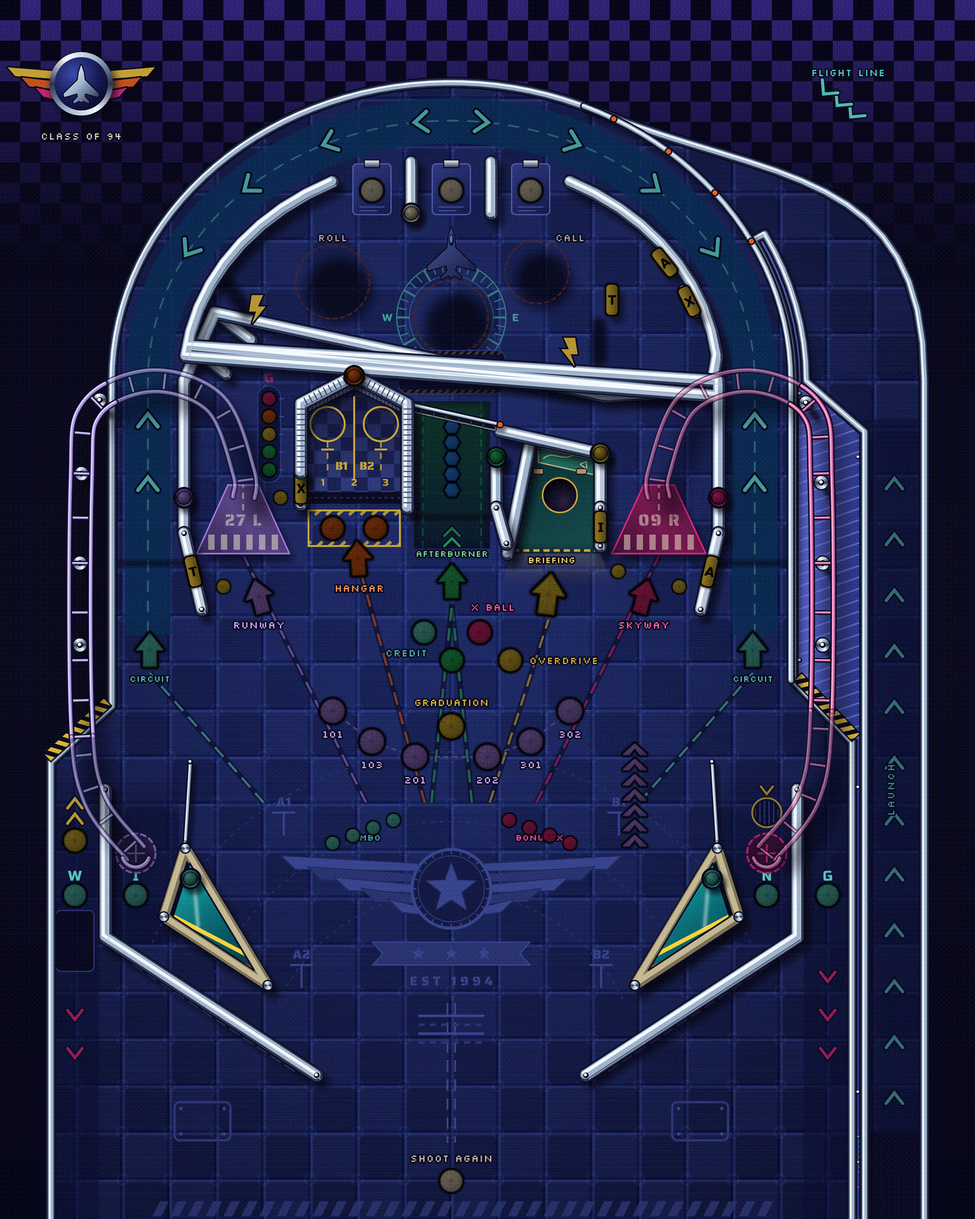
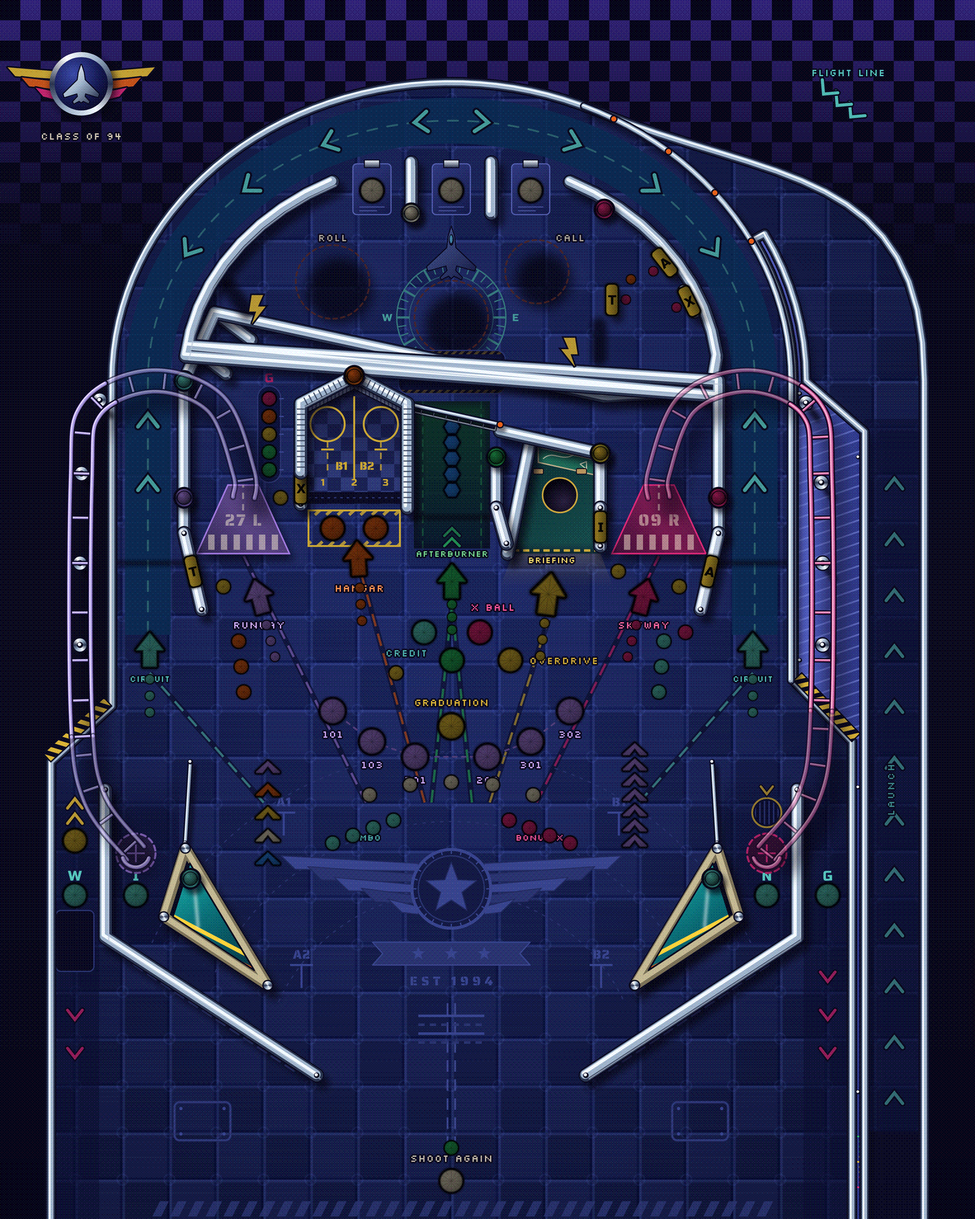
Concept A lamps and domes: 44 lamps and the Flight Deck and left arch domes
The 40 lamps the art proposed and G1 adopted (three progress pips under
each shot arrow, the altimeter FL100 to FL500, a lamp under each F-L-A-P-S
rollover, BOGEY, RADAR, Safety Post, Multiball, DECK lit) plus the deck's
A-C-E letters and CAT SHOT, appended to LampId after Bonus5X; FlasherId
gains Deck (476, 165) and LeftArch (145, 300), the order of the art's dome
sheet. Helpers ladderLamp, isPipLamp, altitudeLamp, flapsLamp and
deckLetterLamp name the groups. The old art pipeline bakes them (a pip
insert shape, 8 units) so that layout and art agree; background.png and
ArtPalette.hpp regenerated, SHA256SUMS updated. The geometry test allows
the pips' closer spacing.

diff --git a/src/core/TableLayout.hpp b/src/core/TableLayout.hpp
@@ -1013,13 +1013,60 @@ enum class LampId : std::uint8_t {
   Bonus3X,
   Bonus4X,
   Bonus5X,
+  // Concept A (G6): the art's proposed lamps (tools/art/table_a lamp_plan.json,
+  // adopted at G1), then the Flight Deck's letters. Each shot's progress
+  // ladder: three pips below its arrow, the first nearest the arrow.
+  LadderCircuitLeft1,
+  LadderCircuitLeft2,
+  LadderCircuitLeft3,
+  LadderRunway1,
+  LadderRunway2,
+  LadderRunway3,
+  LadderHangar1,
+  LadderHangar2,
+  LadderHangar3,
+  LadderBriefing1,
+  LadderBriefing2,
+  LadderBriefing3,
+  LadderTurbine1,
+  LadderTurbine2,
+  LadderTurbine3,
+  LadderSkyway1,
+  LadderSkyway2,
+  LadderSkyway3,
+  LadderCircuitRight1,
+  LadderCircuitRight2,
+  LadderCircuitRight3,
+  AltitudeFL100,  // The altimeter, bottom (FL100) to top (FL500).
+  AltitudeFL200,
+  AltitudeFL300,
+  AltitudeFL400,
+  AltitudeFL500,
+  FlapsF,  // One under each F-L-A-P-S rollover (kRollovers order).
+  FlapsL,
+  FlapsA,
+  FlapsP,
+  FlapsS,
+  Bogey1,  // Beside the BOGEY drops and the RADAR stand-ups (G2 builds them).
+  Bogey2,
+  Bogey3,
+  Radar1,
+  Radar2,
+  Radar3,
+  SafetyPost,
+  Multiball,
+  DeckLit,  // The Skyway's diverter sends the next ball to the deck.
+  DeckA,    // On the field side of the deck's A-C-E stand-ups.
+  DeckC,
+  DeckE,
+  CatShot,  // Below the CAT SHOT cup.
   Count,
 };
 struct Lamp {
   LampId id;
   Vec2 position;
 };
-inline constexpr std::array<Lamp, 58> kLamps{{
+inline constexpr std::array<Lamp, 102> kLamps{{
     {LampId::ArrowCircuitLeft, {118.0F, 512.0F}},
     {LampId::ArrowRunway, {204.0F, 470.0F}},
     {LampId::ArrowHangar, {282.0F, 440.0F}},
@@ -1084,6 +1131,52 @@ inline constexpr std::array<Lamp, 58> kLamps{{
     {LampId::Bonus3X, {433.0F, 658.0F}},
     {LampId::Bonus4X, {417.0F, 652.0F}},
     {LampId::Bonus5X, {401.0F, 646.0F}},
+    // Concept A (G6). Where the art placed them (lamp_plan.json), except the
+    // Afterburner's pips, which G1 moved to clear TurboCharge.
+    {LampId::LadderCircuitLeft1, {118.0F, 535.0F}},
+    {LampId::LadderCircuitLeft2, {118.0F, 548.0F}},
+    {LampId::LadderCircuitLeft3, {118.0F, 561.0F}},
+    {LampId::LadderRunway1, {209.9F, 492.2F}},
+    {LampId::LadderRunway2, {213.3F, 504.8F}},
+    {LampId::LadderRunway3, {216.6F, 517.3F}},
+    {LampId::LadderHangar1, {283.4F, 463.0F}},
+    {LampId::LadderHangar2, {284.2F, 475.9F}},
+    {LampId::LadderHangar3, {285.1F, 488.9F}},
+    {LampId::LadderBriefing1, {429.0F, 490.8F}},
+    {LampId::LadderBriefing2, {427.3F, 503.7F}},
+    {LampId::LadderBriefing3, {425.6F, 516.6F}},
+    {LampId::LadderTurbine1, {356.0F, 476.0F}},
+    {LampId::LadderTurbine2, {356.0F, 486.0F}},
+    {LampId::LadderTurbine3, {356.0F, 496.0F}},
+    {LampId::LadderSkyway1, {501.1F, 492.2F}},
+    {LampId::LadderSkyway2, {497.7F, 504.8F}},
+    {LampId::LadderSkyway3, {494.4F, 517.3F}},
+    {LampId::LadderCircuitRight1, {593.0F, 535.0F}},
+    {LampId::LadderCircuitRight2, {593.0F, 548.0F}},
+    {LampId::LadderCircuitRight3, {593.0F, 561.0F}},
+    {LampId::AltitudeFL100, {211.0F, 676.0F}},
+    {LampId::AltitudeFL200, {211.0F, 658.0F}},
+    {LampId::AltitudeFL300, {211.0F, 640.0F}},
+    {LampId::AltitudeFL400, {211.0F, 622.0F}},
+    {LampId::AltitudeFL500, {211.0F, 604.0F}},
+    {LampId::FlapsF, {291.0F, 626.0F}},
+    {LampId::FlapsL, {323.0F, 618.0F}},
+    {LampId::FlapsA, {355.5F, 616.0F}},
+    {LampId::FlapsP, {388.0F, 618.0F}},
+    {LampId::FlapsS, {420.0F, 626.0F}},
+    {LampId::Bogey1, {188.0F, 505.0F}},
+    {LampId::Bogey2, {190.0F, 525.0F}},
+    {LampId::Bogey3, {192.0F, 545.0F}},
+    {LampId::Radar1, {523.0F, 505.0F}},
+    {LampId::Radar2, {521.0F, 525.0F}},
+    {LampId::Radar3, {519.0F, 545.0F}},
+    {LampId::SafetyPost, {355.5F, 904.0F}},
+    {LampId::Multiball, {312.0F, 530.0F}},
+    {LampId::DeckLit, {540.0F, 498.0F}},
+    {LampId::DeckA, {493.0F, 236.0F}},
+    {LampId::DeckC, {514.7F, 213.6F}},
+    {LampId::DeckE, {532.9F, 242.1F}},
+    {LampId::CatShot, {497.0F, 220.0F}},
 }};
 static_assert(kLamps.size() == static_cast<std::size_t>(LampId::Count), "one lamp per id");
 [[nodiscard]] constexpr bool isArrowLamp(LampId id) noexcept {
@@ -1099,6 +1192,33 @@ static_assert(kLamps.size() == static_cast<std::size_t>(LampId::Count), "one lam
   return static_cast<LampId>(static_cast<std::size_t>(LampId::TaxiT) +
                              (standup < kTaxiStandups ? standup : 0));
 }
+// Concept A's lamp groups (G6). Each shot's arrow (LampId order, the first
+// seven lamps) has a ladder of three pips; k is 0 (nearest the arrow) to 2.
+inline constexpr std::size_t kShotLadderPips = 3;
+[[nodiscard]] constexpr LampId ladderLamp(std::size_t arrow, std::size_t k) noexcept {
+  return static_cast<LampId>(static_cast<std::size_t>(LampId::LadderCircuitLeft1) +
+                             (arrow < 7 ? arrow : 0) * kShotLadderPips +
+                             (k < kShotLadderPips ? k : 0));
+}
+[[nodiscard]] constexpr bool isPipLamp(LampId id) noexcept {
+  return id >= LampId::LadderCircuitLeft1 && id <= LampId::LadderCircuitRight3;
+}
+// The altimeter's rung for a level, 0 (FL100) to 4 (FL500).
+[[nodiscard]] constexpr LampId altitudeLamp(std::size_t level) noexcept {
+  return static_cast<LampId>(static_cast<std::size_t>(LampId::AltitudeFL100) +
+                             (level < 5 ? level : 4));
+}
+// F-L-A-P-S letter 0 to 4.
+[[nodiscard]] constexpr LampId flapsLamp(std::size_t letter) noexcept {
+  return static_cast<LampId>(static_cast<std::size_t>(LampId::FlapsF) + (letter < 5 ? letter : 0));
+}
+// A deck stand-up's letter (kStandups index kDeckStandupA to kDeckStandupA + 2).
+[[nodiscard]] constexpr LampId deckLetterLamp(std::size_t standup) noexcept {
+  return static_cast<LampId>(static_cast<std::size_t>(LampId::DeckA) +
+                             (standup >= kDeckStandupA && standup < kDeckStandupA + 3
+                                  ? standup - kDeckStandupA
+                                  : 0));
+}
 
 // --- Flasher domes (revision 3, TABLE_REV3.md 3.10) ------------------------------------
 // Each stands on a solid where no ball rolls; the art bakes its base unlit
@@ -1113,9 +1233,13 @@ enum class FlasherId : std::uint8_t {
   Nest,
   SlingLeft,
   SlingRight,
+  // Concept A (G1): on the top of the deck's left wall, and on the top of
+  // the left rim straight (the Left Loop's arch).
+  Deck,
+  LeftArch,
   Count,
 };
-inline constexpr std::array<Vec2, 8> kFlasherDomes{{
+inline constexpr std::array<Vec2, 10> kFlasherDomes{{
     {279.0F, 296.0F},
     {473.0F, 357.0F},
     {391.0F, 360.0F},
@@ -1124,6 +1248,8 @@ inline constexpr std::array<Vec2, 8> kFlasherDomes{{
     {324.0F, 168.0F},
     {150.0F, 692.0F},
     {561.0F, 692.0F},
+    {476.0F, 165.0F},
+    {145.0F, 300.0F},
 }};
 static_assert(kFlasherDomes.size() == static_cast<std::size_t>(FlasherId::Count));
 

diff --git a/tools/art/palette.py b/tools/art/palette.py
@@ -52,7 +52,8 @@ INSERT_ROUND_PER_DIAMETER = 24.0 / 22.0   # insert_round.png is drawn this many 
 # positions are the art's proposal and the one place they are written. They are baked into the background
 # unlit and exported to ArtPalette.hpp (kPlannedLamps, kFlasherDomes) so the code can take exactly these
 # positions, or move them and run make_all.py again. Each was placed clear of every solid of the rev3 layout.
-# Shapes: "round" (insert_round.png), "hex" (insert_hex.png), "chevron" (insert_chevron.png, points up).
+# Shapes: "round" (insert_round.png), "pip" (insert_round.png at PIP_DIAMETER), "hex" (insert_hex.png), "chevron"
+# (insert_chevron.png, points up).
 BLUE_NEON = "#3CC8FF"
 LADDER_DIAMETER = 12.0        # the small round inserts of the ladders (course lamps are 22, status 20)
 HEX_DIAMETER = 11.0           # drone armour, corner to corner
@@ -72,8 +73,32 @@ PLANNED_LAMPS = (
     # Combo 2X..5X left of centre and bonus multiplier 2X..5X mirrored on the right, rising toward the middle;
     # concept A: 16 lower, clear of the F and S rollovers.
     [("Combo%dX" % (i + 2), AQUA, "round", (262.0 + 16.0 * i, 664.0 - 6.0 * i)) for i in range(4)] +
-    [("Bonus%dX" % (i + 2), PINK, "round", (449.0 - 16.0 * i, 664.0 - 6.0 * i)) for i in range(4)]
+    [("Bonus%dX" % (i + 2), PINK, "round", (449.0 - 16.0 * i, 664.0 - 6.0 * i)) for i in range(4)] +
+    # Concept A (G6): the art's proposed lamps (table_a lamp_plan.json, adopted at G1). Three progress pips below
+    # each shot arrow in the shot's colour (the Afterburner's moved by G1 to clear TurboCharge), the altimeter's
+    # rungs FL100 (bottom) to FL500 in the Altitude's colours, a lamp under each F-L-A-P-S rollover, BOGEY and
+    # RADAR, the Safety Post, Multiball, DECK lit, then the Flight Deck's A-C-E letters and CAT SHOT.
+    [("Ladder%s%d" % (name, k + 1), col, "pip", pos) for name, col, pips in (
+        ("CircuitLeft", AQUA, [(118.0, 535.0), (118.0, 548.0), (118.0, 561.0)]),
+        ("Runway", ORCHID, [(209.9, 492.2), (213.3, 504.8), (216.6, 517.3)]),
+        ("Hangar", ORANGE, [(283.4, 463.0), (284.2, 475.9), (285.1, 488.9)]),
+        ("Briefing", YELLOW, [(429.0, 490.8), (427.3, 503.7), (425.6, 516.6)]),
+        ("Turbine", GREEN, [(356.0, 476.0), (356.0, 486.0), (356.0, 496.0)]),
+        ("Skyway", PINK, [(501.1, 492.2), (497.7, 504.8), (494.4, 517.3)]),
+        ("CircuitRight", AQUA, [(593.0, 535.0), (593.0, 548.0), (593.0, 561.0)]),
+    ) for k, pos in enumerate(pips)] +
+    [("AltitudeFL%d00" % (i + 1), c, "chevron", (211.0, 676.0 - 18.0 * i))
+     for i, c in enumerate((BLUE, CREAM, YELLOW, ORANGE, ORCHID))] +
+    [("Flaps%s" % l, CREAM, "round", pos) for l, pos in zip("FLAPS", ((291.0, 626.0), (323.0, 618.0), (355.5, 616.0),
+                                                                      (388.0, 618.0), (420.0, 626.0)))] +
+    [("Bogey%d" % (i + 1), ORANGE, "round", (188.0 + 2.0 * i, 505.0 + 20.0 * i)) for i in range(3)] +
+    [("Radar%d" % (i + 1), AQUA, "round", (523.0 - 2.0 * i, 505.0 + 20.0 * i)) for i in range(3)] +
+    [("SafetyPost", GREEN, "round", (355.5, 904.0)), ("Multiball", YELLOW, "round", (312.0, 530.0)),
+     ("DeckLit", PINK, "round", (540.0, 498.0)), ("DeckA", PINK, "pip", (493.0, 236.0)),
+     ("DeckC", PINK, "pip", (514.7, 213.6)), ("DeckE", PINK, "pip", (532.9, 242.1)),
+     ("CatShot", ORANGE, "pip", (497.0, 220.0))]
 )
+PIP_DIAMETER = 8.0            # concept A's progress pips and the deck's letters (round inserts, smaller)
 # Flasher domes: each stands on a solid (a wall end, the Hangar's roof, a slingshot's plastic), never where a
 # ball can roll. The base is baked into the background with the dome unlit; the game draws flasher_dome.png
 # tinted, and its flare over it, when it fires. Revision 3 has no upper flipper, so no Tower dome or arrow.
@@ -82,6 +107,8 @@ FLASHER_DOMES = [
     ("Hangar", ORANGE, (279.0, 296.0)), ("Briefing", YELLOW, (473.0, 357.0)), ("Afterburner", GREEN, (391.0, 360.0)),
     ("Runway", ORCHID, (145.0, 392.0)), ("Skyway", PINK, (566.0, 392.0)), ("Nest", CREAM, (324.0, 168.0)),
     ("SlingLeft", AQUA, (150.0, 692.0)), ("SlingRight", AQUA, (561.0, 692.0)),
+    # Concept A (G1): the Flight Deck's, on the top of its left wall; the left arch's, on the left rim straight.
+    ("Deck", PINK, (476.0, 165.0)), ("LeftArch", AQUA, (145.0, 300.0)),
 ]
 DRONE_SPRITE_UNITS = 44.0     # drone*.png cover this; the hexagon is 2 * the drone's radius corner to corner
 CAPTIVE_BALL_SPRITE_UNITS = 30.0   # captive_ball.png; the ball is 22 of it (TABLE_REV3 3.5: radius 11)

diff --git a/tools/art/gen_header.py b/tools/art/gen_header.py
@@ -87,15 +87,16 @@ def text():
     lines += ["// Revision 3 (TABLE_REV3.md 3.10): the inserts baked into the background for the LampIds from",
               "// DroneArmour1 on (in this order, after the rev 2 lamps in kLampColours and the rest), and the flasher",
               "// domes (FlasherId). Positions are the art's (tools/art/palette.py); TableLayout.hpp uses exactly these.",
-              "enum class InsertShape : std::uint8_t { Round, Hex, Chevron };",
+              "enum class InsertShape : std::uint8_t { Round, Hex, Chevron, Pip };",
               "struct PlannedLamp {", "  std::string_view name;", "  InsertShape shape;", "  float x, y;",
               "  Rgb colour, neon;", "  float litLevel, neonLevel;", "};",
               "inline constexpr float kLadderDiameter = %.1fF;" % P.LADDER_DIAMETER,
+              "inline constexpr float kPipDiameter = %.1fF;" % P.PIP_DIAMETER,
               "inline constexpr float kHexDiameter = %.1fF;" % P.HEX_DIAMETER,
               "inline constexpr float kChevronWidth = %.1fF;" % P.CHEVRON_SIZE[0],
               "inline constexpr float kChevronHeight = %.1fF;" % P.CHEVRON_SIZE[1],
               "inline constexpr std::array<PlannedLamp, %d> kPlannedLamps{{" % len(P.PLANNED_LAMPS)]
-    shapes = {"round": "Round", "hex": "Hex", "chevron": "Chevron"}
+    shapes = {"round": "Round", "hex": "Hex", "chevron": "Chevron", "pip": "Pip"}
     for name, col, shape, (x, y) in P.PLANNED_LAMPS:
         lines.append('    {"%s", InsertShape::%s, %.1fF, %.1fF, %s, %s, %.2fF, %.2fF},' % (
             name, shapes[shape], x, y, rgb(col), rgb(P.NEON[col]), P.lit_level(col), P.neon_level(P.NEON[col])))

diff --git a/tests/TableGeometryTest.cpp b/tests/TableGeometryTest.cpp
@@ -51,7 +51,7 @@ static_assert(table::kAllWalls.size() == table::kWalls.size() + 20);
 static_assert(table::kAllWalls[table::kWalls.size() + 1].a.x ==
               2.0F * table::kFieldCenterX - table::kRimLeftArc[0].x);
 static_assert(table::kSkywayRail[8].x == 604.0F && table::kSkywayRail[0].x == 519.0F);
-static_assert(table::kLamps.size() == 58);  // 29 from revision 2, 29 ladder and letter lamps.
+static_assert(table::kLamps.size() == 102);  // 29 from revision 2, 29 of revision 3, 44 of concept A.
 // The shell and the island are wound opposite ways: the table is inside the
 // one and outside the other.
 static_assert(signedArea(table::kShell) * signedArea(table::kLaneIsland) < 0.0F);
@@ -367,9 +367,12 @@ void testTableGeometry() {
         // No two lamps share a place, except a lane's lamp and its switch.
         // Revision 3's ladders are of small inserts, 11 to 12 across (the
         // rank's chevrons 9 high), stacked closer.
+        // Concept A's progress pips are 8 across, 10 apart at the closest.
         const bool ladders = table::isLadderLamp(lamp.id) && table::isLadderLamp(other.id);
         const bool ladder = table::isLadderLamp(lamp.id) || table::isLadderLamp(other.id);
-        const float apart = ladders  ? 11.0F
+        const bool pips = table::isPipLamp(lamp.id) && table::isPipLamp(other.id);
+        const float apart = pips      ? 9.5F
+                            : ladders ? 11.0F
                             : ladder ? (table::kStatusLampDiameter + 12.0F) * 0.5F
                                      : table::kStatusLampDiameter;
         CHECK(distance(lamp.position, other.position) >= apart);

diff --git a/src/platform/TableRenderer.cpp b/src/platform/TableRenderer.cpp
@@ -198,6 +198,14 @@ std::array<LampSprite, table::kLamps.size()> makeLampSprites() noexcept {
                         .glowRadius = art::kLadderDiameter * art::kRoundGlowRadiusPerDiameter};
           break;
         }
+        case art::InsertShape::Pip: {
+          // Concept A's progress pips and deck letters: a smaller round insert.
+          const float size = art::kPipDiameter * art::kInsertRoundPerDiameter;
+          sprites[i] = {.insert = {centred(lamp.position, size, size), 0.0},
+                        .kind = InsertKind::Round,
+                        .glowRadius = art::kPipDiameter * art::kRoundGlowRadiusPerDiameter};
+          break;
+        }
       }
     } else {
       const float diameter = table::isCourseLamp(lamp.id) ? table::kCourseLampDiameter

diff --git a/tools/art/render_sim.py b/tools/art/render_sim.py
@@ -106,6 +106,8 @@ class Sim:
             sprite, size, glow_r = "sprites/insert_hex.png", 16.0 * P.HEX_DIAMETER / 11.0, P.HEX_DIAMETER * P.GLOW_RADIUS_ROUND
         elif shape == "chevron":
             sprite, size, glow_r = "sprites/insert_chevron.png", P.CHEVRON_SIZE[0] + 6.0, P.CHEVRON_SIZE[0] * 0.8
+        elif shape == "pip":
+            sprite, size, glow_r = "sprites/insert_round.png", P.PIP_DIAMETER * P.INSERT_ROUND_PER_DIAMETER, P.PIP_DIAMETER * P.GLOW_RADIUS_ROUND
         else:
             sprite, size, glow_r = "sprites/insert_round.png", P.LADDER_DIAMETER * P.INSERT_ROUND_PER_DIAMETER, P.LADDER_DIAMETER * P.GLOW_RADIUS_ROUND
         if FX:

diff --git a/tools/art/make_table.py b/tools/art/make_table.py
@@ -849,6 +849,8 @@ class Table:
                 self.sprite("insert_hex.png", x, y, 16.0 * P.HEX_DIAMETER / 11.0, col, P.UNLIT_LEVEL)
             elif shape == "chevron":
                 self.sprite("insert_chevron.png", x, y, P.CHEVRON_SIZE[0] + 6.0, col, P.UNLIT_LEVEL)
+            elif shape == "pip":
+                self.sprite("insert_round.png", x, y, P.PIP_DIAMETER * P.INSERT_ROUND_PER_DIAMETER, col, P.UNLIT_LEVEL)
             else:
                 self.sprite("insert_round.png", x, y, P.LADDER_DIAMETER * P.INSERT_ROUND_PER_DIAMETER, col, P.UNLIT_LEVEL)
 
